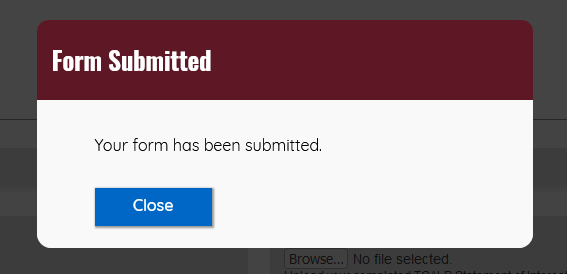
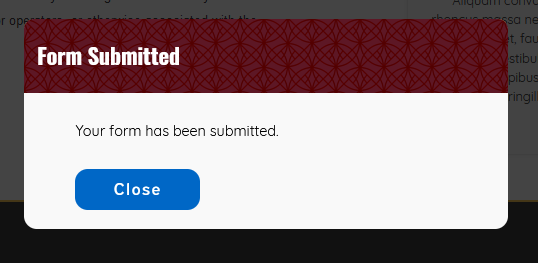
Visual Improvements to Modal
Modal now has a background for the banner

Changed region(s): [[0.0, 0.0608, 1.0, 1.0], [0.1487, 0.4867, 0.5651, 0.5475], [0.8327, 0.0, 1.0, 0.0304]]

diff --git a/components/modal/modal.html b/components/modal/modal.html
@@ -1,5 +1,6 @@
 <template id="site-modal">
   <style>
+
     .modal {
       position: fixed;
       top: 40%;
@@ -12,18 +13,21 @@
       box-shadow: 2px 2px 300rem 200rem #151515cc;
       border-radius: 1rem;
     }
-      .modal-banner {
-        content: "";
-        display: block;
-        position: absolute;
-        top: 0;
-        left: 0;
-        width: 100%;
-        height: 35%;
-        background-color: var(--primary-color-1);
-        z-index: 100;
-        border-radius: .8rem .8rem 0 0;
-      }
+    .modal-banner {
+      content: "";
+      display: block;
+      position: absolute;
+      top: 0;
+      left: 0;
+      width: 100%;
+      height: 35%;
+      background-color: var(--primary-color-1);
+      background-repeat: repeat;
+      z-index: 100;
+      border-radius: .8rem .8rem 0 0;
+      background-size: 60px;
+      background-blend-mode: color-burn;
+    }
     .modal-title {
       position: absolute;
       top: 0;
@@ -31,11 +35,11 @@
       width: 100%;
       z-index: 500;
     }
-      .modal-title-slot {
-        font-size: 18px;
-        font-weight: bold;
-        color: white;
-      }
+    .modal-title-slot {
+      font-size: 18px;
+      font-weight: bold;
+      color: white;
+    }
     .modal-body-slot {
       font-size: 18px;
       font-family: Quicksand, serif;
@@ -45,19 +49,20 @@
       border: none;
       background-color: #0067c6;
       padding: 0.5rem 10%;
-      font-size: 18px;
-      font-family: Quicksand, serif;
+      font-size: 20px;
+      font-family: expressway, sans-serif;
       font-weight: 500;
       color: white;
-      line-height: 1.5;
+      line-height: 1.75;
       margin: 2rem 1rem 1rem 0;
-      box-shadow: 1px 1px 2px 1px #999;
+      border-radius: 1rem;
+      letter-spacing: 2px;
     }
-      .modal-close:hover {
-        background-color: #0056a3;
-        box-shadow: 2px 2px 4px 2px #999;
-        transition: box-shadow 50ms;
-      }
+    .modal-close:hover {
+      background-color: #0056a3;
+      box-shadow: 1px 1px 4px 2px #ccc;
+      transition: box-shadow 50ms;
+    }
   </style>
   <div class="modal">
 

diff --git a/components/modal/modal.js b/components/modal/modal.js
@@ -21,6 +21,9 @@ class SiteModal extends HTMLElement {
 
     this._modal = this.shadow.querySelector('.modal');
     this.style.display = 'none';
+
+    this._banner = this.shadow.querySelector('.modal-banner');
+    this._banner.style.backgroundImage = "url('/" + importer.baseURL + "/components/modal/background.png')";
   }
 
   // ======= Observed Attributes =======
